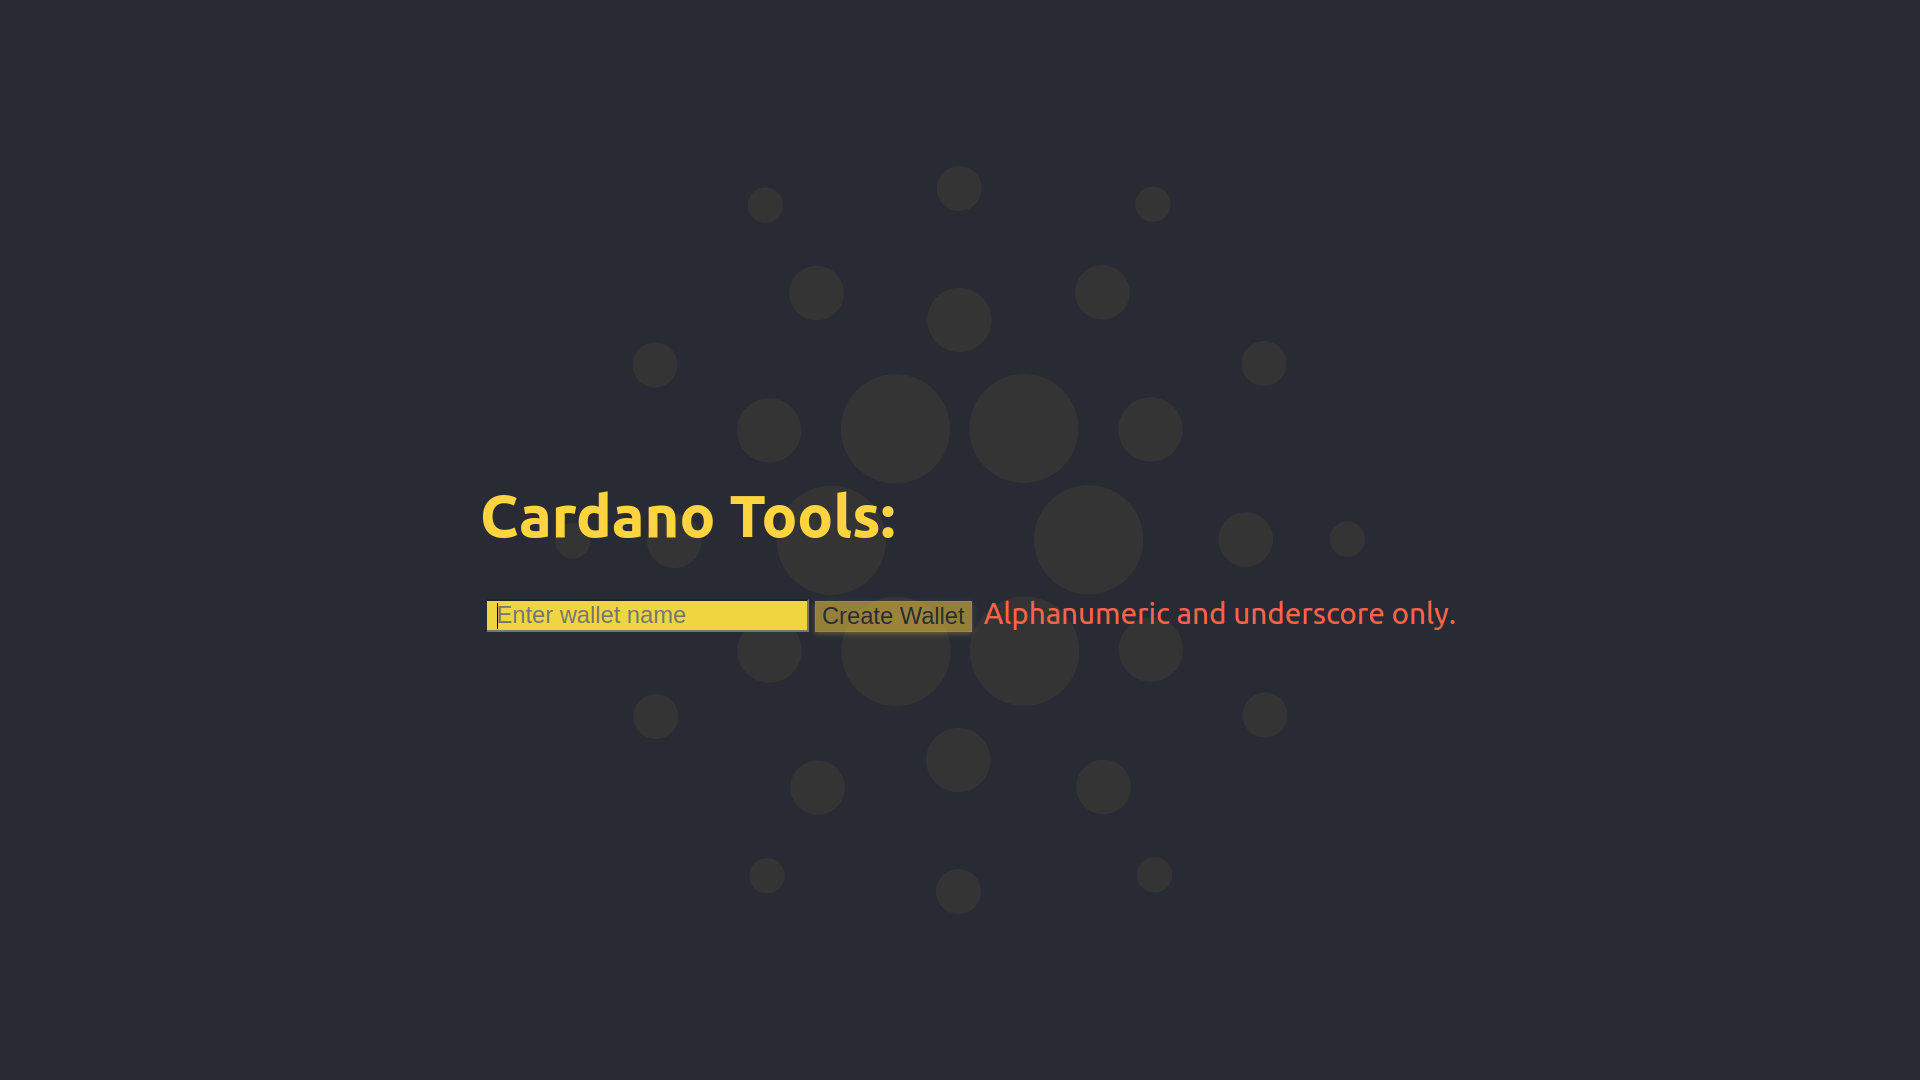
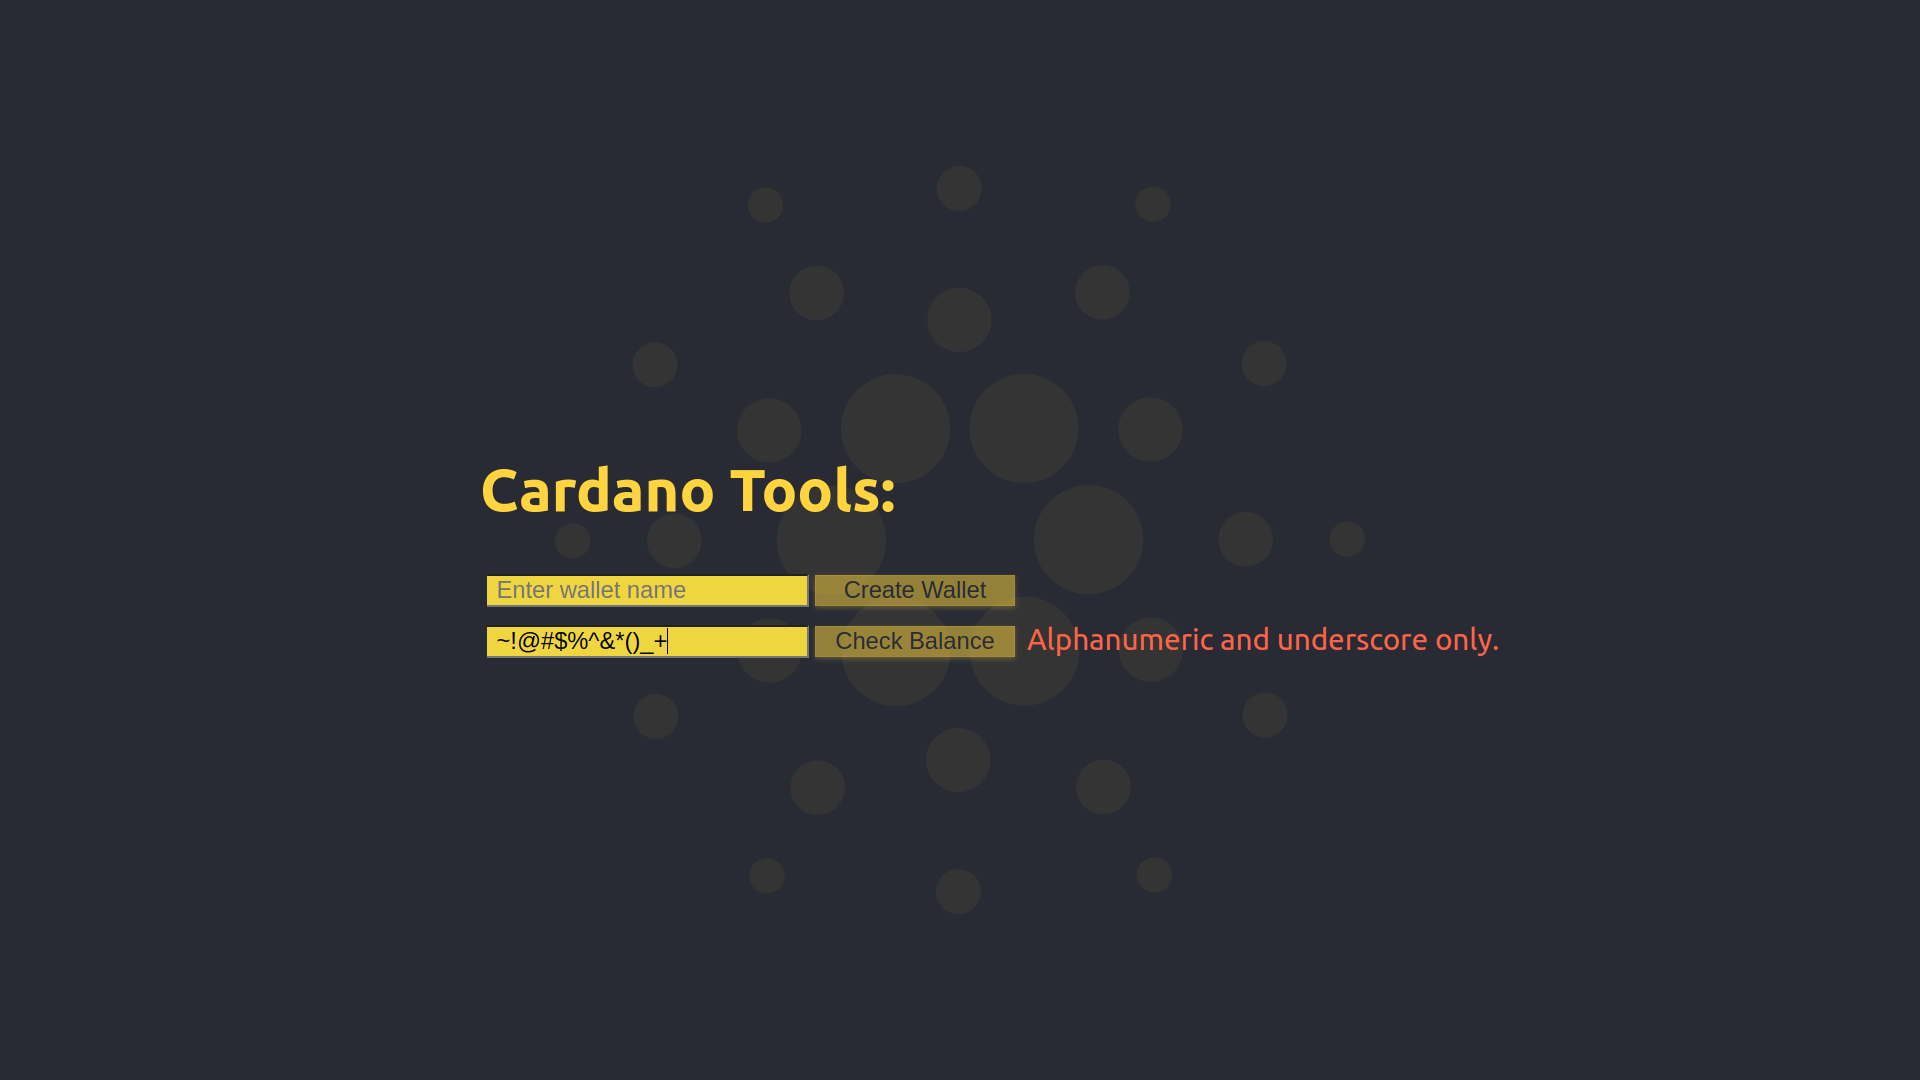
Add check balance

Changed region(s): [[0.25, 0.4278, 0.7812, 0.6111]]

diff --git a/index.js b/index.js
@@ -93,7 +93,7 @@ app.get('/createWallet', function(req, rsp)
                             error);
                 if(req.query.json)
                 {
-                    rsp.json({exception:error});
+                    rsp.json({exception:error.stack});
                 }
                 else
                 {
@@ -114,17 +114,32 @@ app.get('/checkBalance', function(req, rsp)
             console.log(stderr);
             if(error == null)
             {
-                rsp.send(head
-                    + req.query.wallet
-                    + body
-                    + (stderr.trim().length == 0 ? stdout : stderr).toString()
-                    + tail);
+                if(req.query.json)
+                {
+                    rsp.json(stderr.trim().length == 0 ?
+                        {output:stdout} : {error:stderr});
+                }
+                else
+                {
+                    rsp.send(head
+                        + req.query.wallet
+                        + body
+                        + (stderr.trim().length == 0 ? stdout : stderr).toString()
+                        + tail);
+                }
             }
             else
             {
                 console.log('checkBalance error:',
                             error);
-                rsp.send(error.toString());
+                if(req.query.json)
+                {
+                    rsp.json({exception:error.stack});
+                }
+                else
+                {
+                    rsp.send(error.toString());
+                }
             }
         });
 });

diff --git a/frontend/src/component/a/CheckBalance.js b/frontend/src/component/a/CheckBalance.js
@@ -4,7 +4,7 @@ import {
   validateInput,
 } from '../../Util';
 
-function CreateWallet({output}) {
+function CheckBalance({output}) {
   const [walletName, setWalletName] = React.useState(() => '');
   const [error, setError] = React.useState(() => '');
   
@@ -12,7 +12,7 @@ function CreateWallet({output}) {
     <table><tbody><tr>
       
       <td><input type='text'
-        placeholder='Enter wallet name'
+        placeholder='Enter wallet name or address'
         value={walletName}
         onChange={wallet => {
           setWalletName(wallet.target.value);
@@ -23,9 +23,9 @@ function CreateWallet({output}) {
       /></td>
       
       <td><button disabled={walletName.length === 0 || error}
-        onClick={() => apiCall('Create Wallet',
-          `/createWallet?walletName=${walletName}`,
-          output)}>Create Wallet
+        onClick={() => apiCall('Check Balance',
+          `/checkBalance?wallet=${walletName}`,
+          output)}>Check Balance
       </button></td>
       
       <td><div className='Error'>
@@ -36,4 +36,4 @@ function CreateWallet({output}) {
   );
 }
 
-export default CreateWallet;
+export default CheckBalance;

diff --git a/frontend/src/App.js b/frontend/src/App.js
@@ -1,7 +1,7 @@
+import './App.css';
 import React from 'react';
 import CreateWallet from './component/a/CreateWallet';
-
-import './App.css';
+import CheckBalance from './component/a/CheckBalance';
 
 function App() {
   const [result, setResult] = React.useState();
@@ -11,15 +11,23 @@ function App() {
       <h1>Cardano Tools:</h1>
       {result ? <div>
         <u>{result.title}</u>
-        <pre>{result.output}</pre>
+        {result.output && <pre className='ResultOutput'>
+          {result.output}
+        </pre>}
+        {result.error && <pre className='Exception'>
+          {result.error}
+        </pre>}
+        {result.exception && <pre className='Exception'>
+          {result.exception}
+        </pre>}
         <button onClick={() => setResult()}
-          style={{width:'min-content'}}
-          >Back
+          style={{width:'min-content'}}>Back
         </button>
       </div>
       :
       <div>
         <CreateWallet output={setResult}/>
+        <CheckBalance output={setResult}/>
       </div>}
     </div>
   );

diff --git a/frontend/src/App.css b/frontend/src/App.css
@@ -16,10 +16,18 @@
   overflow: clip;
 }
 
+.ResultOutput {
+  color: #dcff52;
+}
+
 .Error {
-  color: #FF7452;
+  color: #ff7452;
   white-space: nowrap;
   max-width: 0;
+}
+
+.Exception {
+  color: #ff7452;
 }
 
 pre {
@@ -62,7 +70,7 @@ button {
   border-width: 1px;
   cursor: pointer;
   font-size: calc(7.5px + 1.5vmin);
-  width: 100%;
+  width: 200px;
 }
 
 button:hover:enabled {

diff --git a/frontend/src/Util.js b/frontend/src/Util.js
@@ -1,0 +1,14 @@
+export function validateInput(input, regex, error, setError) {
+  setError(input.match(regex) ? '' : error);
+}
+
+export async function apiCall(name, url, callback) {
+  const fetchAPI = await fetch(url + '&json=1');
+  const toJSON = await fetchAPI.json();
+  try {
+    callback({title:name,...toJSON});
+  }
+  catch {
+    console.log(toJSON);
+  }
+}

diff --git a/README.md b/README.md
@@ -1,5 +1,5 @@
 # cdp
-node index.js
+npm start
 
 <img src="screenshots/0_HomePage1.png"/>
 
